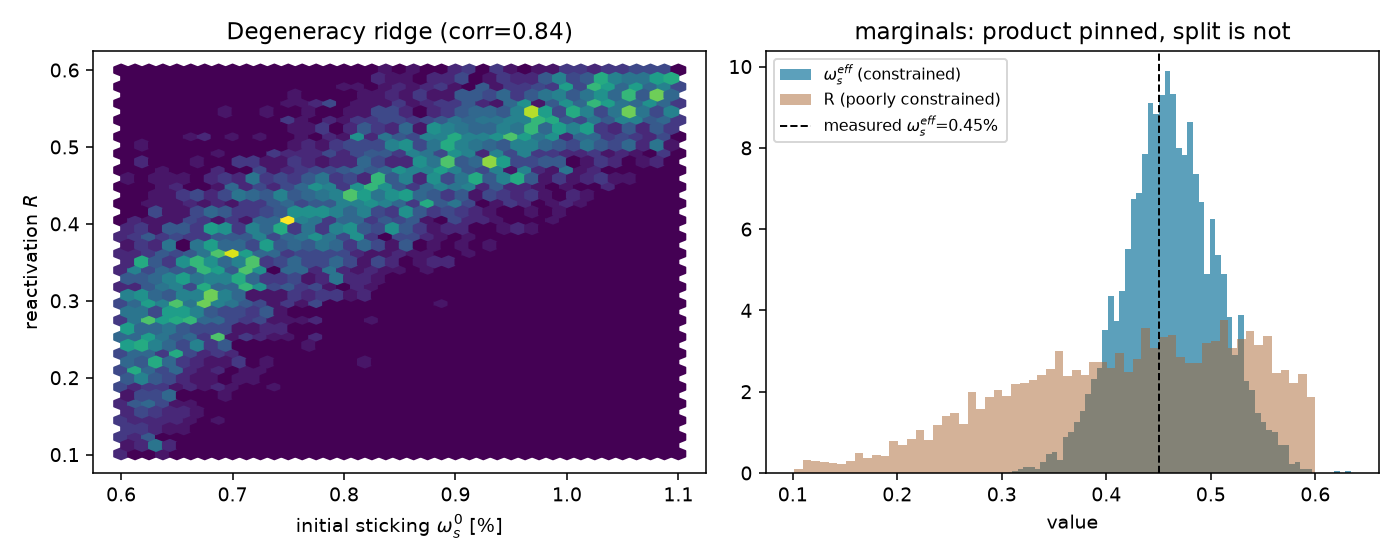
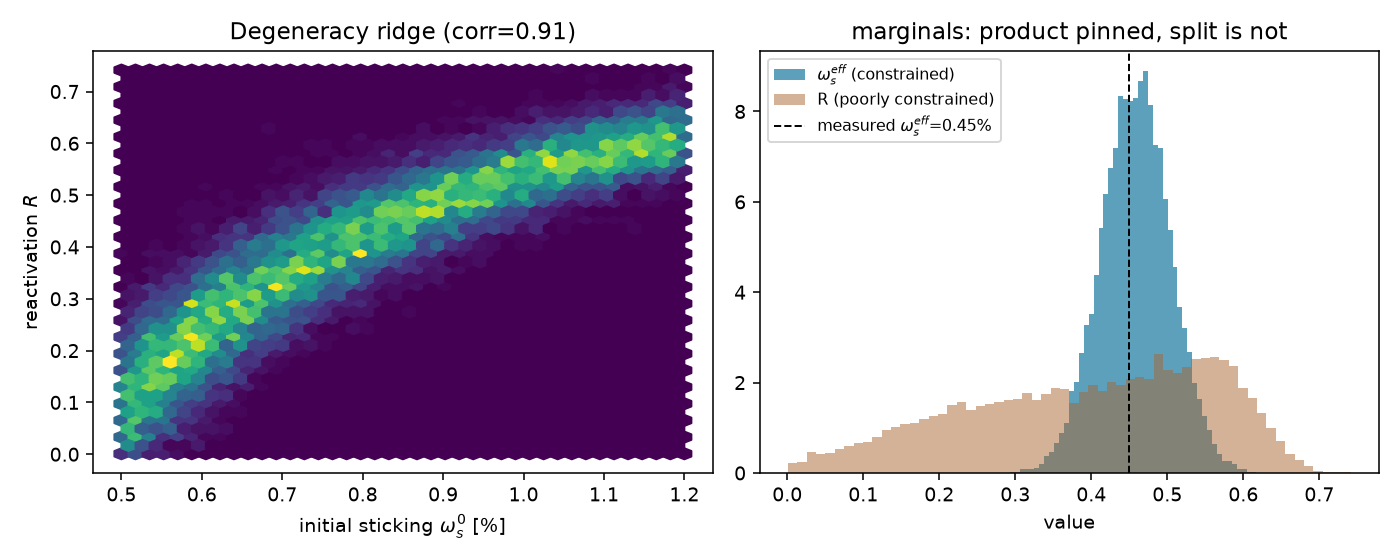
regenerate calibration/findings/design docs
Regenerate the auto-generated docs for the multi-chain calibration (widened boxes, sweep,
pushforward), the Sobol bootstrap CIs in findings, and the design refits under the new chain
default; refresh the materiality manifest input hash. No hand-edited physics numbers.

diff --git a/CALIBRATION.md b/CALIBRATION.md
@@ -1,28 +1,36 @@
 # CALIBRATION.md -- Bayesian calibration to experiment (auto-generated)
 
 Calibrated (omega_s0, R, lambda_c) to Petitjean/Breunlich: omega_s_eff = 0.45+-0.05 %, X_mu = 113+-12,
-via numpyro NUTS. See `openmucf/calibrate.py`.
+via numpyro NUTS (4 sequential chains). See `openmucf/calibrate.py`.
+
+The default prior boxes were WIDENED 2026-07-12 (disclosed statistical correction, I2-clean -- no target
+involved): the previous boxes provably RAILED -- the old weak-chain 95% CI had R hi 0.588 against the old
+R bound 0.60, and omega_s0 lo 0.608 against the old omega_s0 bound 0.60. New boxes: `R ~ Uniform(0.00,
+0.80)` (was 0.10-0.60) and weak `omega_s0_pct ~ Uniform(0.50, 1.20)` (was 0.60-1.10); the lambda_c box is
+UNCHANGED (0.8-1.6e8, a measured-band prior, not railing).
 
 ## Weak omega_s0 prior (experimental data only) -- exposes the degeneracy
-| parameter | mean | sd | 95% CI |
-|---|---|---|---|
-| omega_s_eff_pct | 0.461 | 0.045 | [0.371, 0.55] |
-| lambda_c | 1.14e+08 | 2.02e+07 | [8.25e+07, 1.54e+08] |
-| omega_s0_pct | 0.817 | 0.142 | [0.608, 1.08] |
-| R | 0.419 | 0.112 | [0.184, 0.588] |
+| parameter | mean | sd | mcse | 95% CI |
+|---|---|---|---|---|
+| omega_s_eff_pct | 0.458 | 0.0456 | 0.000389 | [0.369, 0.548] |
+| lambda_c | 1.14e+08 | 2.04e+07 | 2.31e+05 | [8.26e+07, 1.55e+08] |
+| omega_s0_pct | 0.805 | 0.202 | 0.00279 | [0.513, 1.18] |
+| R | 0.394 | 0.161 | 0.00228 | [0.0682, 0.639] |
 
-**omega_s0 - R correlation = 0.84.** The effective sticking (product) and lambda_c
-are well constrained, but omega_s0 and R are strongly correlated (a positive ridge along fixed
-omega_s0*(1-R)): the yield/sticking data pin the product, NOT the split. (Figure `figures/calibration.png`.)
+**omega_s0 - R correlation = 0.91** (prior-conditional). The posterior concentrates
+on the CURVE omega_s0*(1-R) = omega_s_eff (the product is pinned by the data); the linear (Pearson)
+correlation is a descriptive statistic of that curved ridge and is prior-support-dependent -- it ranges
+[0.83, 0.92] across the prior-sensitivity sweep below. The effective sticking (product)
+and lambda_c are well constrained; omega_s0 and R are not separable. (Figure `figures/calibration.png`.)
 
 ## Informative omega_s0 prior (Kamimura 0.857+-0.03 %) -- partially resolves it
-| parameter | mean | sd | 95% CI |
-|---|---|---|---|
-| omega_s0_pct | 0.856 | 0.0296 | [0.797, 0.914] |
-| R | 0.461 | 0.0569 | [0.341, 0.567] |
-| omega_s_eff_pct | 0.461 | 0.0463 | [0.374, 0.556] |
+| parameter | mean | sd | mcse | 95% CI |
+|---|---|---|---|---|
+| omega_s0_pct | 0.856 | 0.0301 | 0.000313 | [0.798, 0.915] |
+| R | 0.462 | 0.0585 | 0.000589 | [0.346, 0.576] |
+| omega_s_eff_pct | 0.46 | 0.0473 | 0.000446 | [0.367, 0.552] |
 
-The Kamimura *theory* input tightens omega_s0 (sd 0.142 -> 0.0296 %)
+The Kamimura *theory* input tightens omega_s0 (sd 0.202 -> 0.0301 %)
 and hence R -- but R still inherits that uncertainty.
 
 ## Finding
@@ -30,6 +38,49 @@ Experiment alone determines **effective sticking and the cycling rate**, not the
 sticking/reactivation split. Separating omega_s0 from R -- and predicting how R changes at high density --
 requires an independent microscopic calculation. **That is exactly the Phase-3 reactivation surrogate,**
 and this degeneracy is the quantitative reason it is needed.
+
+## Convergence diagnostics (4 chains, sequential)
+| chain | max r_hat | min ess | divergences |
+|---|---|---|---|
+| weak | 1.000 | 5e+03 | 0 |
+| Kamimura | 1.000 | 9.2e+03 | 0 |
+
+Convergence gate (`tests/test_calibrate.py::test_multichain_diagnostics`): max r_hat < 1.01, min ess > 400, divergences == 0 on the default (widened-box) chains.
+
+## Prior-sensitivity sweep (weak-prior mode; 4 chains x 1000)
+| config | boxes | corr | R sd | ose mean | ose sd | rails? |
+|---|---|---|---|---|---|---|
+| R=legacy/os0=legacy/lc=narrow | R[0.10,0.60] os0[0.60,1.10] lc[8e+07,2e+08] | 0.84 | 0.109 | 0.462 | 0.0443 | no |
+| R=legacy/os0=legacy/lc=wide | R[0.10,0.60] os0[0.60,1.10] lc[6e+07,2e+08] | 0.83 | 0.11 | 0.462 | 0.0463 | no |
+| R=legacy/os0=wide/lc=narrow | R[0.10,0.60] os0[0.50,1.20] lc[8e+07,2e+08] | 0.89 | 0.136 | 0.46 | 0.0446 | no |
+| R=legacy/os0=wide/lc=wide | R[0.10,0.60] os0[0.50,1.20] lc[6e+07,2e+08] | 0.88 | 0.136 | 0.46 | 0.0449 | no |
+| R=legacy/os0=widest/lc=narrow | R[0.10,0.60] os0[0.40,1.30] lc[8e+07,2e+08] | 0.90 | 0.145 | 0.459 | 0.0458 | no |
+| R=legacy/os0=widest/lc=wide | R[0.10,0.60] os0[0.40,1.30] lc[6e+07,2e+08] | 0.89 | 0.142 | 0.459 | 0.0466 | no |
+| R=wide/os0=legacy/lc=narrow | R[0.05,0.70] os0[0.60,1.10] lc[8e+07,2e+08] | 0.85 | 0.118 | 0.46 | 0.047 | no |
+| R=wide/os0=legacy/lc=wide | R[0.05,0.70] os0[0.60,1.10] lc[6e+07,2e+08] | 0.84 | 0.115 | 0.458 | 0.0485 | no |
+| R=wide/os0=wide/lc=narrow | R[0.05,0.70] os0[0.50,1.20] lc[8e+07,2e+08] | 0.90 | 0.156 | 0.457 | 0.0458 | no |
+| R=wide/os0=wide/lc=wide | R[0.05,0.70] os0[0.50,1.20] lc[6e+07,2e+08] | 0.90 | 0.157 | 0.456 | 0.0471 | no |
+| R=wide/os0=widest/lc=narrow | R[0.05,0.70] os0[0.40,1.30] lc[8e+07,2e+08] | 0.92 | 0.171 | 0.455 | 0.0458 | no |
+| R=wide/os0=widest/lc=wide | R[0.05,0.70] os0[0.40,1.30] lc[6e+07,2e+08] | 0.92 | 0.173 | 0.455 | 0.0478 | no |
+| R=widest/os0=legacy/lc=narrow | R[0.00,0.80] os0[0.60,1.10] lc[8e+07,2e+08] | 0.84 | 0.114 | 0.46 | 0.0468 | no |
+| R=widest/os0=legacy/lc=wide | R[0.00,0.80] os0[0.60,1.10] lc[6e+07,2e+08] | 0.84 | 0.116 | 0.458 | 0.0481 | no |
+| R=widest/os0=wide/lc=narrow | R[0.00,0.80] os0[0.50,1.20] lc[8e+07,2e+08] | 0.90 | 0.16 | 0.459 | 0.046 | no |
+| R=widest/os0=wide/lc=wide | R[0.00,0.80] os0[0.50,1.20] lc[6e+07,2e+08] | 0.90 | 0.166 | 0.459 | 0.0482 | no |
+| R=widest/os0=widest/lc=narrow | R[0.00,0.80] os0[0.40,1.30] lc[8e+07,2e+08] | 0.92 | 0.186 | 0.455 | 0.0451 | no |
+| R=widest/os0=widest/lc=wide | R[0.00,0.80] os0[0.40,1.30] lc[6e+07,2e+08] | 0.92 | 0.184 | 0.455 | 0.0472 | no |
+| default box; rho_obs=+0.5 | default; MultivariateNormal obs likelihood | 0.92 | 0.158 | 0.46 | 0.0388 | no |
+| default box; rho_obs=-0.5 | default; MultivariateNormal obs likelihood | 0.90 | 0.161 | 0.453 | 0.0481 | no |
+
+The product omega_s0(1-R) (= ose mean) and lambda_c are box-invariant; corr and R-width are support-dependent (corr range [0.83, 0.92] across the sweep) -- the degeneracy is the finding, its two-decimal value is not. `rails?` flags a 95% CI endpoint within 1% of its OWN box bound; it is `no` for every config here, INCLUDING the legacy boxes -- the old boxes' railing was the looser near-bound truncation quoted above (old committed CI R hi 0.588 just below 0.60; omega_s0 lo 0.608 just above 0.60, the old bound falling inside the posterior), removed by the widening; the residual support-dependence now shows as growing R-width, not hard railing. The last two rows treat the two observations as correlated (MultivariateNormal, rho_obs=+/-0.5) instead of independent Gaussians (cal-2): the product and lambda_c stay pinned; the corr/width shift is the covariance sensitivity.
+
+## Posterior pushforward (state-of-knowledge X_mu and Q_net)
+| quantity | mean | sd | 95% CI |
+|---|---|---|---|
+| X_mu (weak-box posterior) | 115.7 | 9.25 | [98.71, 134.1] |
+| X_mu (Kamimura posterior) | 115.6 | 9.12 | [98.7, 133.7] |
+| Q_net (hybrid: posterior kinetics x ignorance-box economics) | 0.04905 | 0.0324 | [0.01178, 0.1387] |
+
+X_mu is the DEFAULT-box weak-chain (and Kamimura-chain) `(omega_s_eff, lambda_c)` joint draws pushed through `1/(ose/100 + lambda_0/lambda_c)` -- the state-of-knowledge (posterior) interval, as opposed to the ignorance-box propagation in FINDINGS.md. The two chains agree (the product is data-pinned). Q_net multiplies the weak-box posterior X_mu by seeded-uniform draws over the FROZEN uq boxes for E_mu / eta_acc / eta_thermal (posterior kinetics x ignorance-box economics -- hybrid; the economics is an ignorance box, not a posterior).
 
 ## Channels-on re-attribution (ttmu) -- blocked
 

diff --git a/FINDINGS.md b/FINDINGS.md
@@ -16,27 +16,35 @@ noise digits) -> this verifies the diffrax solver + JAX autodiff machinery (it i
 independent test of the closed-form reduction; that reduction is the pre-registered V1 gate).
 
 ## 1. Which uncertainty actually controls the yield (global sensitivity)
-Sobol total-order indices $S_T$ (fraction of output variance each input drives, incl. interactions):
+Sobol first-order $S_1$ and total-order $S_T$ indices (fraction of output variance each input drives; $S_T$
+includes interactions), each with a 95% bootstrap CI (200 resamples, seeded => byte-stable):
 
 **X_mu (fusions per muon):**
-| input | $S_T$ |
-|---|---|
-| R | 0.620 |
-| lambda_c | 0.254 |
-| omega_s0_pct | 0.131 |
-| E_mu_GeV | 0.000 |
-| eta_acc | 0.000 |
-| eta_thermal | 0.000 |
+| input | $S_1$ (95% boot CI) | $S_T$ (95% boot CI) |
+|---|---|---|
+| R | 0.616 +/- 0.021 | 0.620 +/- 0.018 |
+| lambda_c | 0.249 +/- 0.015 | 0.254 +/- 0.008 |
+| omega_s0_pct | 0.130 +/- 0.011 | 0.131 +/- 0.004 |
+| E_mu_GeV | 0.000 +/- 0.000 | 0.000 +/- 0.000 |
+| eta_acc | 0.000 +/- 0.000 | 0.000 +/- 0.000 |
+| eta_thermal | 0.000 +/- 0.000 | 0.000 +/- 0.000 |
 
 **Q_net (net-electrical gain):**
-| input | $S_T$ |
-|---|---|
-| E_mu_GeV | 0.631 |
-| eta_acc | 0.427 |
-| eta_thermal | 0.017 |
-| R | 0.014 |
-| lambda_c | 0.006 |
-| omega_s0_pct | 0.003 |
+| input | $S_1$ (95% boot CI) | $S_T$ (95% boot CI) |
+|---|---|---|
+| E_mu_GeV | 0.541 +/- 0.026 | 0.631 +/- 0.023 |
+| eta_acc | 0.340 +/- 0.021 | 0.427 +/- 0.019 |
+| eta_thermal | 0.011 +/- 0.004 | 0.017 +/- 0.001 |
+| R | 0.009 +/- 0.003 | 0.014 +/- 0.001 |
+| lambda_c | 0.004 +/- 0.002 | 0.006 +/- 0.000 |
+| omega_s0_pct | 0.002 +/- 0.002 | 0.003 +/- 0.000 |
+
+The $S_T-S_1$ gap is the interaction share. For the top X_mu driver R it is
+**0.004** (the omega_s0 x R bilinear interaction): small, because the omega_s0 box
+is narrow, so R acts almost first-order here. Total-order ranking is stable across sample size and seed --
+$S_T(R)$ over N in {4096, 8192} x seed in {0, 1} =
+0.620, 0.620, 0.620, 0.620,
+top driver **R** stable across all four.
 
 **Finding.** Under the contested-range priors (see section 1b for the prior-width caveat), X_mu is controlled by the sticking/reactivation pair (`omega_s0`, `R`) and the cycling
 rate `lambda_c`; the muon cost and efficiencies do not enter it. But the *energy* question flips the
@@ -94,6 +102,9 @@ the Kou-Chen best case -- both correspond to conditions the liquid box excludes.
 
 P(Q_sci > 1) = 0.2% ; P(Q_net > 1) = 0.0%.
 
+State-of-knowledge (posterior) X_mu and Q intervals -- as opposed to the ignorance-box propagation above --
+are reported in CALIBRATION.md ("Posterior pushforward").
+
 ## 2b. Q_net by muon-cost tier
 Sections 1 and 2 use the default flat E_mu = [2, 10] GeV design-study box (UNCHANGED). To make the
 muon-cost gap (`MUON_COST.md`) legible as an energy-return statement, the SAME seeded forward-UQ Q_net is
@@ -134,7 +145,8 @@ liquid-density (phi <= ~1.45), unpolarized** uncertainty ranges:
   which is precisely the unmeasured question the MuFusE program tests.
 - **What would have to be true** for $N_\mu$=500: the (lambda_c, R) frontier runs from
   (2.28e8, R -> 1) to (3e8, R = 0.94); and even at infinite lambda_c,
-  omega_s_eff <= 0.2% i.e. **R >= 0.77** is required. For reference R ~ 0.35 is the model-derived
+  omega_s_eff <= 0.2% i.e. **R >= 0.77** is required (R >= 0.75-0.79 across the
+  omega_s0-box band -- higher initial sticking needs more reactivation). For reference R ~ 0.35 is the model-derived
   collisional value (Kou-Chen Eq.33) -- experiment pins only the product omega_s_eff ~ 0.45%, and our
   Kamimura-prior calibration posterior gives R = 0.46 +- 0.06.
 

diff --git a/DESIGN.md b/DESIGN.md
@@ -33,13 +33,13 @@ C4 (X-ray/neutron ratio) is **included**: the X-ray/neutron feasibility study (`
 ## PRIMARY metric -- preposterior sd-contraction (median over 8 synthetic datasets)
 | candidate | omega_s^eff contraction | R contraction (constant-R) | R contraction (R(phi)-inflated) |
 |---|---|---|---|
-| C1 | 0.231 | 0.070 | 0.002 |
-| C2 | 0.049 | 0.017 | 0.017 |
-| C3 | 0.560 | 0.101 | 0.103 |
-| C4 | -0.026 | 0.408 | 0.408 |
+| C1 | 0.262 | 0.104 | 0.009 |
+| C2 | 0.038 | 0.036 | 0.036 |
+| C3 | 0.559 | 0.147 | 0.016 |
+| C4 | -0.061 | 0.313 | 0.313 |
 
 Ranking by omega_s^eff contraction (the well-posed estimand): **C3 > C1 > C2 > C4**. Ranking by R
-contraction under constant-R: **C4 > C3 > C1 > C2**; under R(phi)-inflated: **C4 > C3 > C2 > C1**. Contraction
+contraction under constant-R: **C4 > C3 > C1 > C2**; under R(phi)-inflated: **C4 > C2 > C3 > C1**. Contraction
 cells carry a ~+/-3 pp Monte-Carlo floor over the 8 synthetic datasets, so separations below
 that -- the near-zero estimand-discipline cells especially -- are not distinguishable from zero; the
 deliverable is the LARGE-effect ranking and the structural collapse below (both reproduced within
@@ -47,32 +47,32 @@ tolerance by `--audit`), not the fine ordering of sub-floor cells.
 
 **The recommended experiment depends on the estimand.** To break the omega_s0/R degeneracy (tighten R),
 **C4 (X-ray/neutron ratio) wins decisively and ROBUSTLY across both structural classes** -- its R
-contraction (0.408) is class-independent because it constrains omega_s0 DIRECTLY, not through the
+contraction (0.313) is class-independent because it constrains omega_s0 DIRECTLY, not through the
 R(phi) form. To tighten omega_s^eff specifically, C3 (a direct high-density re-measurement) leads.
 
 **Class-flip finding (YES).** The neutron-only candidates' apparent R information is
 generated by the assumed R(phi) form, exactly as the estimand-discipline note warns. The neutron
-disappearance slope C1 contracts R by 0.070 under constant-R but collapses to 0.002 under
+disappearance slope C1 contracts R by 0.104 under constant-R but collapses to 0.009 under
 R(phi)-inflation -- a drop far larger than the +/-3 pp contraction noise floor -- so its apparent
 constant-R information is revealed as an artifact of the structural assumption. At the collapsed level C1
-is **statistically indistinguishable from the R-independent control C2** (0.017): the nominal
-ranking reads constant-R C4 > C3 > C1 > C2 vs R(phi)-inflated C4 > C3 > C2 > C1, but that C1<->C2 crossing is
+is **statistically indistinguishable from the R-independent control C2** (0.036): the nominal
+ranking reads constant-R C4 > C3 > C1 > C2 vs R(phi)-inflated C4 > C2 > C3 > C1, but that C1<->C2 crossing is
 itself WITHIN the +/-3 pp noise floor and is NOT a robust ordering -- the robust finding is C1's collapse,
-not the crossing. C4's contraction (0.408) does not move between classes: it constrains omega_s0
+not the crossing. C4's contraction (0.313) does not move between classes: it constrains omega_s0
 DIRECTLY, so it is the one candidate that identifies R without the structural assumption.
 
 ## SECONDARY metric -- nested-Monte-Carlo EIG
 | candidate | EIG [bits] |
 |---|---|
-| C1 | 1.629 |
-| C2 | 1.782 |
-| C3 | 1.081 |
-| C4 | 3.240 |
-| C3 (scenario-B, R(phi)-inflated) | 2.492 |
+| C1 | 1.606 |
+| C2 | 1.750 |
+| C3 | 1.205 |
+| C4 | 3.279 |
+| C3 (scenario-B, R(phi)-inflated) | 2.491 |
 
 **Scenario-B disclaimer.** the scenario-B MuFusE EIG is large BY CONSTRUCTION (the widest prior wins);
-this is a property of the prior, not of the experiment. C3's EIG rises from 1.081 bits under
-scenario A (constant-R) to 2.492 bits under scenario B (R replaced by the wider
+this is a property of the prior, not of the experiment. C3's EIG rises from 1.205 bits under
+scenario A (constant-R) to 2.491 bits under scenario B (R replaced by the wider
 Uniform(0.15, 0.60) prior) purely because scenario B starts from a wider prior, so there is more entropy
 to remove -- it is not evidence that the experiment is more informative.
 